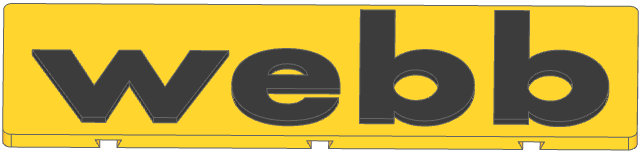
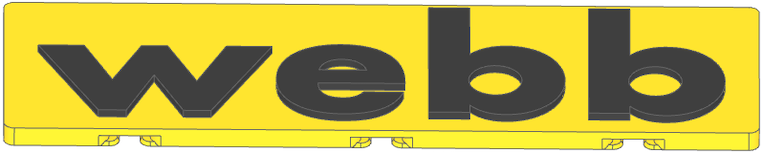
Update webb base to v1.1.0 style
The trapezoids have been changed to slightly easier to
print curved profiles.

diff --git a/src/gflabel/bases/webb.py b/src/gflabel/bases/webb.py
@@ -1,15 +1,20 @@
 from __future__ import annotations
 
 from build123d import (
+    Axis,
     BuildLine,
     BuildPart,
     BuildSketch,
+    Edge,
     Mode,
     Plane,
     Polyline,
     RectangleRounded,
+    ShapeList,
     Vector,
+    chamfer,
     extrude,
+    fillet,
     make_face,
 )
 
@@ -40,17 +45,73 @@ def body() -> LabelBase:
         # Plane.XZ
         with BuildSketch(Plane.XZ) as _sketch:
             for x in [-12.133, 0, 12.133]:
-                with BuildLine(Plane.XZ) as _line:
+                with BuildLine() as _line:
                     Polyline(
                         [
-                            (x - 0.75, -0.4),
                             (x - 0.5, -1),
+                            (x - 0.5, -0.8),
+                            (x - 1, -0.8),
+                            (x - 1, -0.4),
+                            (x + 1, -0.4),
+                            (x + 1, -0.8),
+                            (x + 0.5, -0.8),
                             (x + 0.5, -1),
-                            (x + 0.75, -0.4),
                         ],
                         close=True,
                     )
+                    # mirror(_line.line, Plane.YZ)
                 make_face()
         extrude(amount=height / 2, both=True, mode=Mode.SUBTRACT)
+
+        # Now, handle v1.1.0 fillets/chamfers
+        verts = (
+            part.edges()
+            .filter_by(Axis.Z)
+            .filter_by(lambda x: x.length < 1)
+            .group_by(lambda x: x.length)
+        )
+        # This needs to be done in two passes in build123d, for some reason
+        fillet(verts[0], radius=0.5)
+        fillet(verts[1], radius=0.5)
+
+        # Now, find the edges to chamber
+
+        def _get_all_start_edges():
+            """Extracts the two Y-axis inner lines for each channel"""
+            # Get a list of all edges we want to consider
+            all_candidates = (
+                part.edges().filter_by(Axis.Y).filter_by_position(Axis.Z, -0.85, -0.75)
+            )
+            # Now let's select the inner Y-axis edges that we know we want
+            start_edges = ShapeList()
+            for x in [-12.133, 0, 12.133]:
+                start_edges.extend(
+                    all_candidates.filter_by_position(Axis.X, x - 0.55, x + 0.55)
+                )
+            return start_edges
+
+        # Now we follow each of these edges
+        def _edge_matcher(vertex_set: ShapeList):
+            """Given a list of vertices, returns a matcher for edges touching them"""
+            vs = vertex_set.vertices()
+
+            def _match_edge(edge: Edge) -> bool:
+                for v in edge.vertices():
+                    for v2 in vs:
+                        if v.distance_to(v2) < 0.001:
+                            return True
+                return False
+
+            return _match_edge
+
+        cands_to_chamfer = (
+            part.edges().filter_by(Plane.XY).filter_by_position(Axis.Z, -0.85, -0.75)
+        )
+        # Now, expand the selection twice, following all edges touching the known good edges
+        ext_1 = cands_to_chamfer.filter_by(_edge_matcher(_get_all_start_edges()))
+        ext_2 = cands_to_chamfer.filter_by(_edge_matcher(ext_1))
+
+        # Finally, Chamfer these. We want 0.2/0.1 but 100% chamfers seem not to work well.
+        chamfer(ext_2, length=0.1999, length2=0.1)
 
     return LabelBase(part.part, Vector(36.4, 11))
